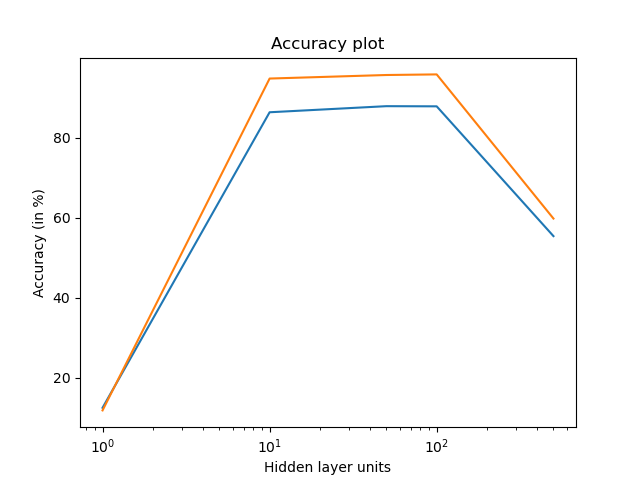
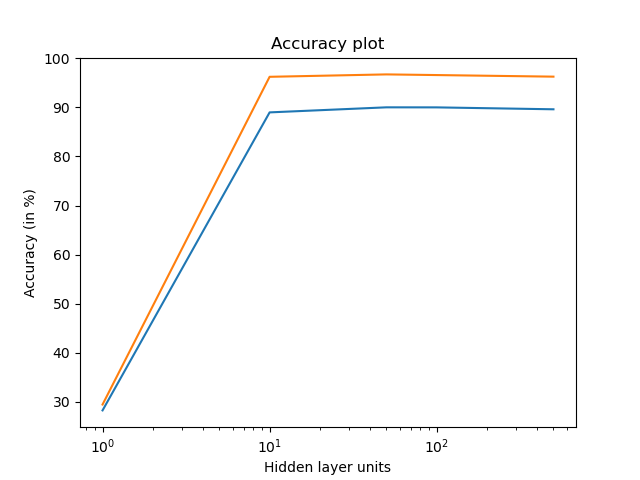
complete neural network

diff --git a/Assignment3/Q2/q2.py b/Assignment3/Q2/q2.py
@@ -6,15 +6,15 @@ import time
 
 np.random.seed(3141592)
 
+# TODO: replace 1e-4 by 1e-5
+
 # d_f(z) = dz/dx in terms of z = f(x)
 
 def relu(z):
     return np.maximum(z, 0.0)
 
 def d_relu(z):
-    x = np.copy(z)
-    x[x <= 0] = 0
-    return x
+    return np.where(z > 0, 1.0, 0.0)
 
 def sigmoid(z):
     return 1 / (1 + np.exp(-z))
@@ -76,8 +76,7 @@ class NeuralNetwork:
         self.architecture = [features] + architecture + [target_classes] # changed
         self.target_classes = target_classes
         # + 1 due to intercept
-        self.theta = [None] + [(2 * np.random.random((self.architecture[i] + 1, self.architecture[i + 1])) - 1) * init_range
-                for i in range(len(self.architecture) - 1)]
+        self.theta = [None] + [(2 * np.random.random((self.architecture[i]+1,self.architecture[i+1])) - 1) * math.sqrt(6/self.architecture[i]) for i in range(len(self.architecture)-1)]
         self.learning_rate = learning_rate
         self.eps = eps
         self.adaptive = adaptive
@@ -166,7 +165,7 @@ def mainB():
         activation = ['sigmoid' for i in range(num_hidden_layers + 1)]
         architecture = [hidden_layer_units] * num_hidden_layers
         target_classes = 10
-        learning_rate = 0.1
+        learning_rate = 0.001
         eps = 1e-4
         nn = NeuralNetwork(batch_size=batch_size,
                            features=features,
@@ -261,7 +260,94 @@ def mainC():
     plt.savefig('nn_time_plot_adaptive.png')
 
 def mainD():
-    pass
+    X_train, y_train = compressor(np.load(sys.argv[1])), np.load(sys.argv[2])
+    X_test, y_test = compressor(np.load(sys.argv[3])), np.load(sys.argv[4])
+    X_train = X_train.astype('float32') / 255
+    X_test = X_test.astype('float32') / 255
+    units = []
+    test_accuracies = []
+    train_accuracies = []
+    elapsed_time = []
+    num_hidden_layers = 2
+    hidden_layer_units = 100
+    architecture = [hidden_layer_units] * num_hidden_layers
+    features = 784
+    batch_size = 100
+    relu_activation = ['relu' for i in range(num_hidden_layers + 1)]
+    relu_activation[-1] = 'sigmoid'
+    sigmoid_activation = ['sigmoid' for i in range(num_hidden_layers + 1)]
+    target_classes = 10
+    learning_rate = 0.5
+    eps = 1e-4
+    for activation in [relu_activation, sigmoid_activation]:
+        nn = NeuralNetwork(batch_size=batch_size,
+                           features=features,
+                           architecture=architecture,
+                           target_classes=target_classes,
+                           activation=activation,
+                           learning_rate=learning_rate,
+                           eps=eps,
+                           adaptive=True)
+        t = time.time()
+        epoch, average_error = nn.train(np.copy(X_train), one_hot_encoder(y_train, target_classes))
+        y_pred_test = nn.predict(np.copy(X_test))
+        y_pred_train = nn.predict(np.copy(X_train))
+        elapsed_time.append(time.time() - t)
+        units.append(hidden_layer_units)
+        test_accuracies.append(100 * y_pred_test[y_pred_test == y_test].shape[0] / y_pred_test.shape[0])
+        train_accuracies.append(100 * y_pred_train[y_pred_train == y_train].shape[0] / y_pred_train.shape[0])
+        if activation == relu_activation:
+            print('relu')
+        else:
+            print('sigmoid')
+        print('hidden layer units:', hidden_layer_units)
+        print('test accuracy:', test_accuracies[-1], '%')
+        print('train accuracy:', train_accuracies[-1], '%')
+        print('time taken:', elapsed_time[-1])
+        print('number of epochs:', epoch)
+        print('average error:', average_error)
+
+def mainE():
+    X_train, y_train = compressor(np.load(sys.argv[1])), np.load(sys.argv[2])
+    X_test, y_test = compressor(np.load(sys.argv[3])), np.load(sys.argv[4])
+    X_train = X_train.astype('float32') / 255
+    X_test = X_test.astype('float32') / 255
+    units = []
+    test_accuracies = []
+    train_accuracies = []
+    elapsed_time = []
+    experimental_values = [100]
+    num_hidden_layers = 2
+    features = 784
+    batch_size = 100
+    activation = ['relu' for i in range(num_hidden_layers + 1)]
+    activation[-1] = 'sigmoid'
+    target_classes = 10
+    learning_rate = 0.5
+    eps = 1e-4
+    for hidden_layer_units in experimental_values:
+        architecture = [hidden_layer_units] * num_hidden_layers
+        from sklearn.neural_network import MLPClassifier
+        nn = MLPClassifier(activation='relu',
+                           solver='sgd',
+                           batch_size=batch_size,
+                           learning_rate='invscaling',
+                           learning_rate_init=0.5,
+                           max_iter=1000,
+                           verbose=False,
+                           n_iter_no_change=1)
+        t = time.time()
+        nn.fit(np.copy(X_train), y_train)
+        y_pred_test = nn.predict(np.copy(X_test))
+        y_pred_train = nn.predict(np.copy(X_train))
+        elapsed_time.append(time.time() - t)
+        units.append(hidden_layer_units)
+        test_accuracies.append(100 * y_pred_test[y_pred_test == y_test].shape[0] / y_pred_test.shape[0])
+        train_accuracies.append(100 * y_pred_train[y_pred_train == y_train].shape[0] / y_pred_train.shape[0])
+        print('hidden layer units:', hidden_layer_units)
+        print('test accuracy:', test_accuracies[-1], '%')
+        print('train accuracy:', train_accuracies[-1], '%')
+        print('time taken:', elapsed_time[-1])
 
 if __name__ == '__main__':
-    mainC()
+    mainD()
